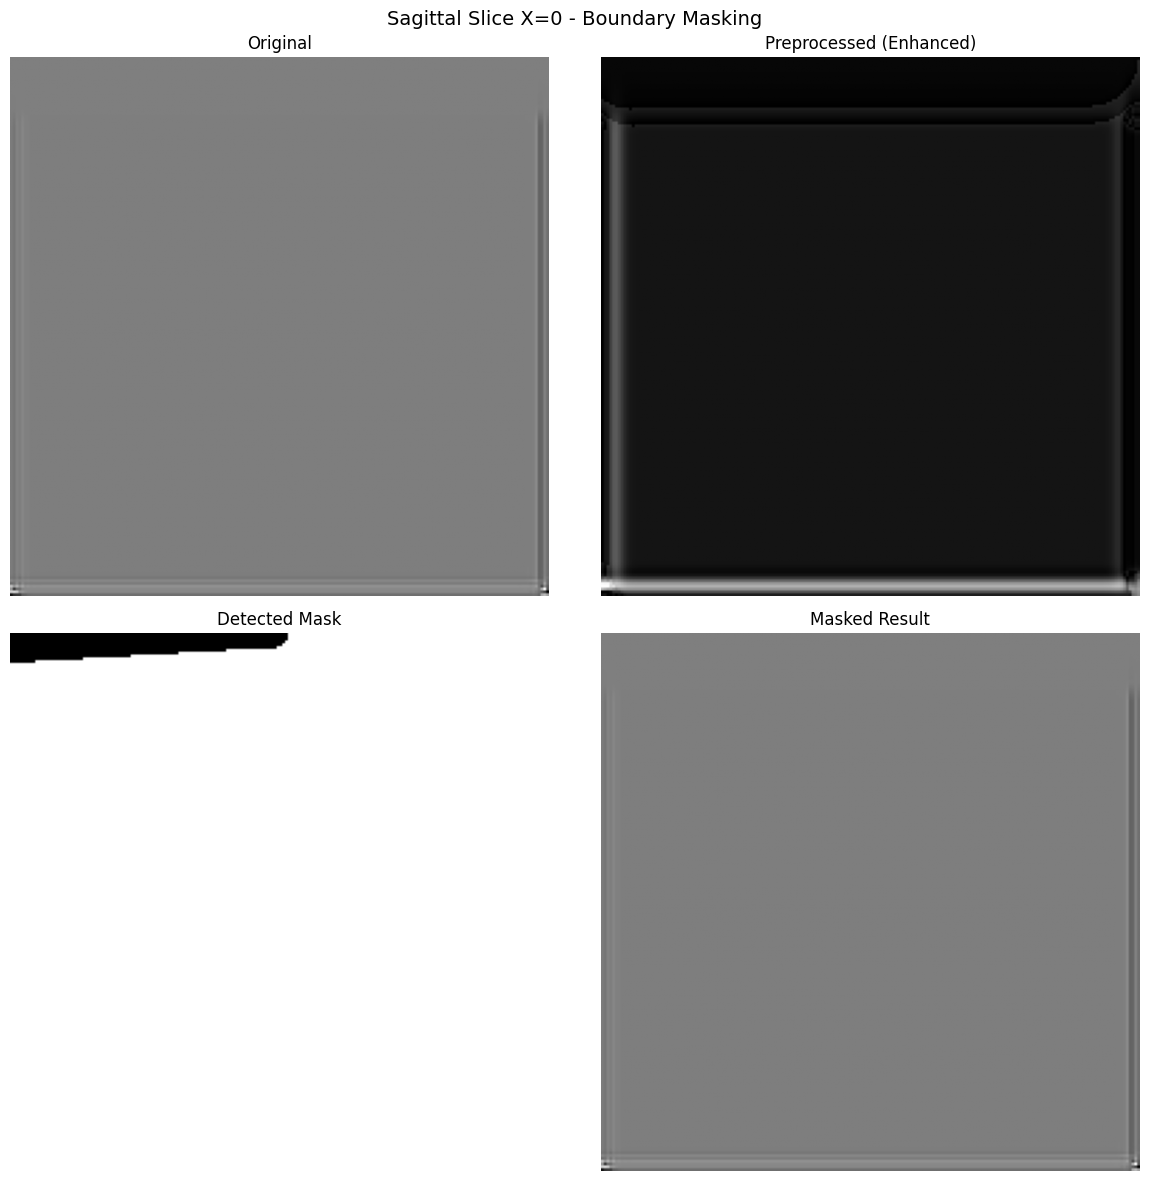
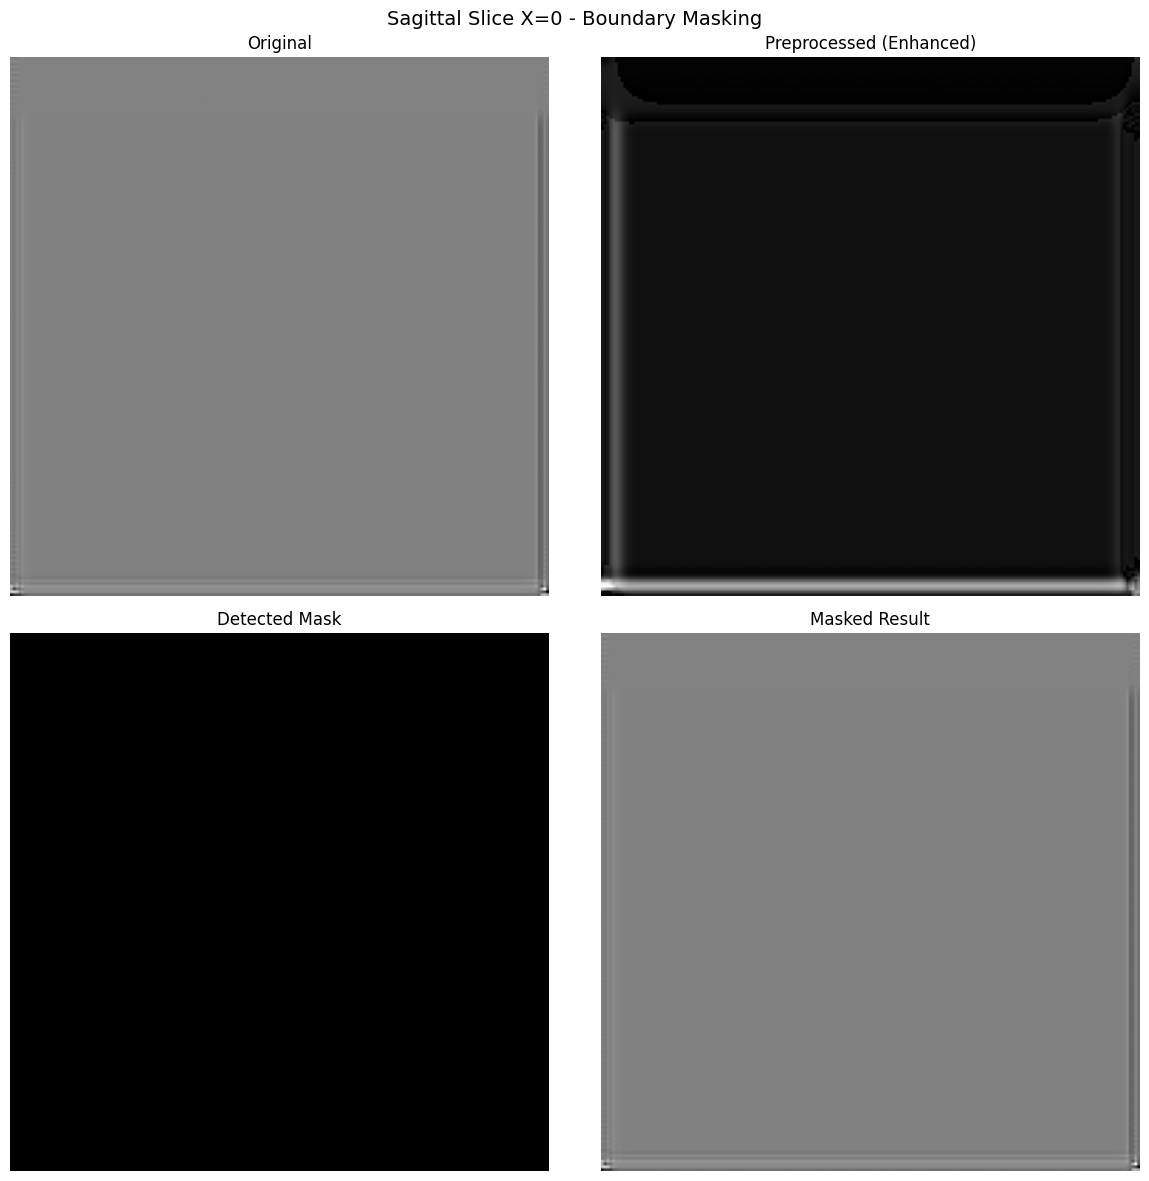
ADD: 수평 스트라이프 제거 기능 통합 (FFT 기반)
unified_denoise.py의 remove_horizontal_stripes를 boundary_mask_padding.py로 이식

처리 순서 (최종):
1. Z-축 상단 노이즈 제거 (Z=175, 17개 슬라이스)
2. 수평 스트라이프 제거 (FFT 기반) ← 새로 추가
3. 경계선 마스킹 (Convex hull)

새 메서드:
- remove_horizontal_stripes(filter_strength, iterations, aggressive)
  - Z축을 따라 1D FFT 수행
  - 고주파 성분 선택적 억제
  - Fade transition으로 앨리어싱 방지
  - Preserve radius: len//12 (25% 더 보존)
  - Threshold: 96th percentile

파라미터 추가:
- remove_stripes=True (기본값)
- stripe_filter_strength=0.6
- stripe_iterations=1
- stripe_aggressive=False

run_full_pipeline 수정:
- Step 2로 스트라이프 제거 추가
- Z-노이즈 제거 후, 경계선 마스킹 전에 실행
- 메타데이터에 stripe_reduction_percent 기록

결과 (gneo_sample_sr_189):
- 스트라이프 감소율: 0.007% (원래 스트라이프가 거의 없음)
- 보존: 47.67%
- 메타데이터에 3단계 모두 기록됨

출력:
- 최종 통계에 스트라이프 감소율 표시
- 메타데이터에 horizontal_stripe_removal 단계 포함

Changed region(s): [[0.0, 0.5182, 0.4874, 1.0]]

diff --git a/boundary_mask_padding.py b/boundary_mask_padding.py
@@ -355,6 +355,121 @@ class BoundaryMaskProcessor:
 
         return detected_boundary
 
+    def remove_horizontal_stripes(self, filter_strength=0.6, iterations=1, aggressive=False):
+        """
+        수평 스트라이프 제거 (FFT 기반)
+
+        FFT(Fast Fourier Transform)를 사용하여 주파수 도메인에서
+        z-축 방향의 수평 스트라이프를 제거합니다.
+
+        각 (x, y) 위치에서 z-축을 따라 1D FFT를 수행하고,
+        고주파 성분을 선택적으로 억제하여 스트라이프를 제거합니다.
+
+        Args:
+            filter_strength: 필터 강도 (0.0~1.0, 높을수록 강하게 제거)
+            iterations: 반복 횟수
+            aggressive: True이면 더 공격적으로 제거 (threshold=94, preserve_radius 감소)
+
+        Returns:
+            stripe_reduction: 스트라이프 감소율 (%)
+        """
+        print("\n수평 스트라이프 제거 중...")
+        if aggressive:
+            print("  ⚡ 공격적 모드 활성화: 더 강력한 스트라이프 제거")
+
+        # Z-축 방향 분산 계산 (스트라이프 측정)
+        z_profiles_before = []
+        for i in range(0, self.shape[0], 10):  # 샘플링
+            for j in range(0, self.shape[1], 10):
+                profile = self.data[i, j, :]
+                if profile.std() > 0.01:
+                    z_profiles_before.append(profile.std())
+        variance_before = np.mean(z_profiles_before) if z_profiles_before else 0
+
+        for iter_num in range(iterations):
+            processed = 0
+            skipped = 0
+            for i in range(self.shape[0]):
+                if i % 40 == 0:
+                    print(f"  처리 중 x={i}/{self.shape[0]}...")
+
+                for j in range(self.shape[1]):
+                    z_line = self.data[i, j, :]
+
+                    # 변화가 거의 없는 라인은 스킵
+                    if z_line.std() < 0.01:
+                        skipped += 1
+                        continue
+
+                    processed += 1
+
+                    # FFT 수행
+                    fft = np.fft.fft(z_line)
+                    fft_shift = np.fft.fftshift(fft)
+                    magnitude = np.abs(fft_shift)
+
+                    # 저주파 보존 영역 설정 (더 넓게 보존 → 앨리어싱 방지)
+                    center = len(fft_shift) // 2
+                    if aggressive:
+                        # 공격적 모드: 더 좁은 보존 영역, 더 낮은 threshold
+                        preserve_radius = max(5, len(fft_shift) // 15)
+                        threshold = np.percentile(magnitude, 94)  # 94th percentile
+                    else:
+                        # 기본 모드: 균형잡힌 설정
+                        preserve_radius = max(5, len(fft_shift) // 12)  # 15→12: 25% 더 보존
+                        threshold = np.percentile(magnitude, 96)  # 98→96: 더 공격적
+
+                    # 필터 마스크 생성 (filter_strength 파라미터 사용)
+                    filter_mask = np.ones_like(fft_shift, dtype=np.float64)
+                    for idx in range(len(fft_shift)):
+                        distance = abs(idx - center)
+                        if distance > preserve_radius and magnitude[idx] > threshold:
+                            # 저주파에 가까울수록 약하게 필터링 (부드러운 전환)
+                            suppression = filter_strength
+                            if distance < preserve_radius * 1.5:
+                                # 전환 영역: 부드럽게 감쇠
+                                fade = (distance - preserve_radius) / (preserve_radius * 0.5)
+                                suppression = filter_strength * fade
+                            filter_mask[idx] = 1.0 - suppression
+
+                    # 필터 적용
+                    fft_filtered = fft_shift * filter_mask
+
+                    # 역변환
+                    fft_back = np.fft.ifftshift(fft_filtered)
+                    filtered = np.fft.ifft(fft_back).real
+
+                    self.data[i, j, :] = filtered
+
+            print(f"  반복 {iter_num + 1}/{iterations} 완료 (처리: {processed}, 스킵: {skipped})")
+
+        # Z-축 방향 분산 재계산
+        z_profiles_after = []
+        for i in range(0, self.shape[0], 10):
+            for j in range(0, self.shape[1], 10):
+                profile = self.data[i, j, :]
+                if profile.std() > 0.01:
+                    z_profiles_after.append(profile.std())
+        variance_after = np.mean(z_profiles_after) if z_profiles_after else 0
+
+        # 스트라이프 감소율 계산
+        if variance_before > 0:
+            stripe_reduction = (1 - variance_after / variance_before) * 100
+        else:
+            stripe_reduction = 0.0
+
+        print(f"  스트라이프 감소율: {stripe_reduction:.1f}%")
+
+        self.metadata['steps'].append({
+            'step': 'horizontal_stripe_removal',
+            'filter_strength': filter_strength,
+            'iterations': iterations,
+            'aggressive_mode': aggressive,
+            'stripe_reduction_percent': float(stripe_reduction)
+        })
+
+        return stripe_reduction
+
     def process_volume_sagittal(self,
                                 preprocess_method='gaussian',
                                 smooth_sigma=2.0,
@@ -609,7 +724,11 @@ class BoundaryMaskProcessor:
                          visualize_every=20,
                          remove_z_noise=True,
                          z_min_start=0.70,
-                         z_gradient_threshold=2.0):
+                         z_gradient_threshold=2.0,
+                         remove_stripes=True,
+                         stripe_filter_strength=0.6,
+                         stripe_iterations=1,
+                         stripe_aggressive=False):
         """
         전체 파이프라인 실행
 
@@ -625,6 +744,10 @@ class BoundaryMaskProcessor:
             remove_z_noise: Z-축 상단 노이즈 제거 여부 (기본: True)
             z_min_start: Z-축 노이즈 검색 시작 위치 (기본: 0.70)
             z_gradient_threshold: Z-축 gradient 임계값 (기본: 2.0)
+            remove_stripes: 수평 스트라이프 제거 여부 (기본: True)
+            stripe_filter_strength: 스트라이프 필터 강도 (기본: 0.6)
+            stripe_iterations: 스트라이프 제거 반복 횟수 (기본: 1)
+            stripe_aggressive: 공격적 스트라이프 제거 모드 (기본: False)
         """
         # 1. Z-축 상단 노이즈 제거 먼저 (unified_denoise.py 방식)
         # 중요: 이걸 먼저 해야 contour 검출 시 노이즈 영역이 포함되지 않음
@@ -635,8 +758,18 @@ class BoundaryMaskProcessor:
                 gradient_threshold=z_gradient_threshold
             )
 
-        # 2. Sagittal 슬라이스 단위 처리 (경계선 마스킹)
-        # Z-노이즈가 제거된 상태에서 경계선 검출
+        # 2. 수평 스트라이프 제거 (FFT 기반)
+        # Z-노이즈 제거 후, 경계선 마스킹 전에 실행
+        stripe_reduction = None
+        if remove_stripes:
+            stripe_reduction = self.remove_horizontal_stripes(
+                filter_strength=stripe_filter_strength,
+                iterations=stripe_iterations,
+                aggressive=stripe_aggressive
+            )
+
+        # 3. Sagittal 슬라이스 단위 처리 (경계선 마스킹)
+        # Z-노이즈와 스트라이프가 제거된 상태에서 경계선 검출
         visualization_slices = self.process_volume_sagittal(
             preprocess_method=preprocess_method,
             smooth_sigma=smooth_sigma,
@@ -648,10 +781,10 @@ class BoundaryMaskProcessor:
             visualize_every=visualize_every
         )
 
-        # 3. 결과 저장
+        # 4. 결과 저장
         self.save_output()
 
-        # 4. 시각화
+        # 5. 시각화
         if visualize_every > 0:
             self.generate_visualizations(visualization_slices)
 
@@ -666,6 +799,9 @@ class BoundaryMaskProcessor:
             print(f"\nZ-축 노이즈:")
             print(f"  노이즈 경계: Z={z_boundary} ({z_boundary/self.shape[2]*100:.1f}%)")
             print(f"  제거된 슬라이스: {self.shape[2] - z_boundary}개")
+        if remove_stripes and stripe_reduction is not None:
+            print(f"\n수평 스트라이프:")
+            print(f"  감소율: {stripe_reduction:.1f}%")
         print()
 
         return self.data, self.mask_3d, self.metadata
@@ -708,7 +844,11 @@ def main():
         visualize_every=20,              # 20개마다 시각화 (0이면 시각화 안 함)
         remove_z_noise=True,             # Z-축 상단 노이즈 제거 여부
         z_min_start=0.70,                # Z-축 검색 시작 (70%부터)
-        z_gradient_threshold=2.0         # Gradient 임계값
+        z_gradient_threshold=2.0,        # Gradient 임계값
+        remove_stripes=True,             # 수평 스트라이프 제거 여부
+        stripe_filter_strength=0.6,      # 스트라이프 필터 강도
+        stripe_iterations=1,             # 스트라이프 제거 반복 횟수
+        stripe_aggressive=False          # 공격적 스트라이프 제거 모드
     )
 
     return masked_data, mask_3d, metadata
